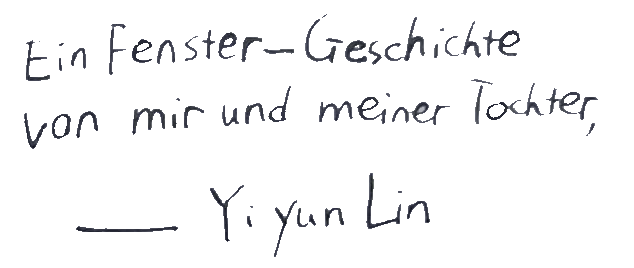
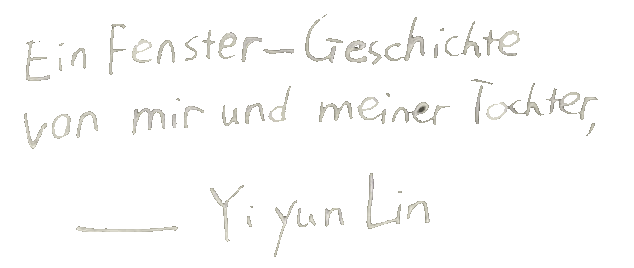
alletext

diff --git a/css/main.css b/css/main.css
@@ -321,6 +321,20 @@ body {
   text-shadow: 0 1px 4px rgba(0,0,0,.25);
   transition: transform 1.2s cubic-bezier(.7,0,.3,1);
 }
+
+#page7 .text-group-right {
+  bottom: 70%;
+  right: 12%;
+  width: clamp(180px, 32vw, 420px);
+  font-size: inherit;
+}
+
+#page7 .page7-yiyun-img {
+  display: block;
+  width: 100%;
+  height: auto;
+}
+
 /* 第5页文本层级提升 */
 #page5 .text-group-left {
   z-index: 3100; /* 高于 digger/privat */
@@ -676,6 +690,51 @@ body.page6-plus #page5 .text-group-left {
   
 }
 
+#page6 .schild-wrap {
+  position: absolute;
+  top: 4%;
+  right: 4%;
+  width: clamp(120px, 24vw, 270px); /* 放大 1.5 倍 */
+  opacity: 0;
+  transform: translateY(-6px);
+  transition: opacity 0.35s ease, transform 0.35s ease;
+  pointer-events: none;
+  z-index: 3600; /* 高于建筑层 */
+}
+
+#page6 .schild-wrap img {
+  display: block;
+  width: 100%;
+  height: auto;
+}
+
+body.page6-plus #page6 .schild-wrap {
+  opacity: 1;
+  transform: translateY(0);
+}
+
+#page6 .nur-overlay {
+  position: absolute;
+  top: 38%;
+  left: 35%;
+  transform: translate(-50%, -50%); /* 向左平移 */
+  width: clamp(140px, 28vw, 260px);
+  opacity: 0;
+  transition: opacity 0.35s ease;
+  pointer-events: none;
+  z-index: 3700; /* 高于建筑层 */
+}
+
+#page6 .nur-overlay img {
+  display: block;
+  width: 100%;
+  height: auto;
+}
+
+#page6 .nur-overlay.show {
+  opacity: 1;
+}
+
 .house-video-wrap {
   position: absolute;
   inset: 0;
@@ -819,6 +878,28 @@ body.page6-plus #page5 .text-group-left {
 
 /* 最后一页：点击出现文字的显隐类 */
 .final-text.show {
+  opacity: 1;
+}
+
+#page7 .eimal-overlay {
+  position: absolute;
+  top: 30%; /* 上移 */
+  left: 60%;
+  transform: translate(-50%, -50%);
+  width: clamp(140px, 28vw, 320px);
+  opacity: 0;
+  transition: opacity 0.35s ease;
+  pointer-events: none;
+  z-index: 5000; /* 高于背景线条等 */
+}
+
+#page7 .eimal-overlay img {
+  display: block;
+  width: 100%;
+  height: auto;
+}
+
+#page7 .eimal-overlay.show {
   opacity: 1;
 }
 

diff --git a/script.js b/script.js
@@ -213,6 +213,7 @@ window.addEventListener('DOMContentLoaded', () => {
   const buildingAnim = (() => {
     const wrap = document.getElementById('houseVideoWrap');
     const layers = wrap ? Array.from(wrap.querySelectorAll('.building-layer')) : [];
+    const nurOverlay = document.getElementById('nurOverlay');
     if (!wrap || !layers.length) return {
       reset: () => {},
       setIndex: () => {},
@@ -226,12 +227,17 @@ window.addEventListener('DOMContentLoaded', () => {
         wrap.classList.remove('visible');
         layers.forEach(l => l.style.opacity = '0');
         setPage5ContentVisibility(true);
+        if (nurOverlay) nurOverlay.classList.remove('show');
         return;
       }
       wrap.classList.add('visible');
       layers.forEach((l, i) => {
         l.style.opacity = i <= idx ? '1' : '0';
       });
+      if (nurOverlay) {
+        const lastIndex = layers.length - 1;
+        nurOverlay.classList.toggle('show', idx >= lastIndex);
+      }
       setPage5ContentVisibility(false); // 盖楼开始后隐藏 Kinder/文本
     }
 
@@ -274,6 +280,10 @@ window.addEventListener('DOMContentLoaded', () => {
   window.addEventListener('pagechange', e => {
     const idx = e.detail.index;
     document.body.classList.toggle('page6-plus', idx >= 5);
+    const eimal = document.getElementById('eimalOverlay');
+    if (eimal) {
+      eimal.classList.toggle('show', idx === 6);
+    }
     if (idx === 4) {
       privatStage = 0; // 进入第5页时重置掉落
       privatDrop.reset();

diff --git a/index.html b/index.html
@@ -172,6 +172,14 @@
       </video>
     </div>
 
+    <div class="nur-overlay" id="nurOverlay" aria-hidden="true">
+      <img src="./images/text/nur.png" alt="Nur">
+    </div>
+
+    <div class="schild-wrap" aria-hidden="true">
+      <img src="./images/text/schild.png" alt="Schild" class="schild-img">
+    </div>
+
     <div class="house-video-wrap" id="houseVideoWrap" aria-hidden="true">
       <img src="./images/building/1.png" alt="building layer 1" class="building-layer">
       <img src="./images/building/2.png" alt="building layer 2" class="building-layer">
@@ -184,13 +192,16 @@
   <section class="page page7" id="page7" aria-label="第7页：Fenster">
     <img class="sheep-outline-base" src="./images/sheepwhitefinal.webp" alt="Sheep outline">
 
-    <div class="text-group-right" style="color:#fff;">
-      <p>Es war einmal</p>
-      <p>der Wind und ich erinnern uns leise。</p>
+    <div class="text-group-right">
+      <img src="./images/text/yiyun.png" alt="Yiyun" class="page7-yiyun-img">
     </div>
 
     <div class="click-icon" id="clickIconFinal">
       <img src="./images/click.webp" alt="Click">
+    </div>
+
+    <div class="eimal-overlay" id="eimalOverlay" aria-hidden="true">
+      <img src="./images/text/eimal.png" alt="eimal">
     </div>
 
     <div class="final-text" id="finalText">
